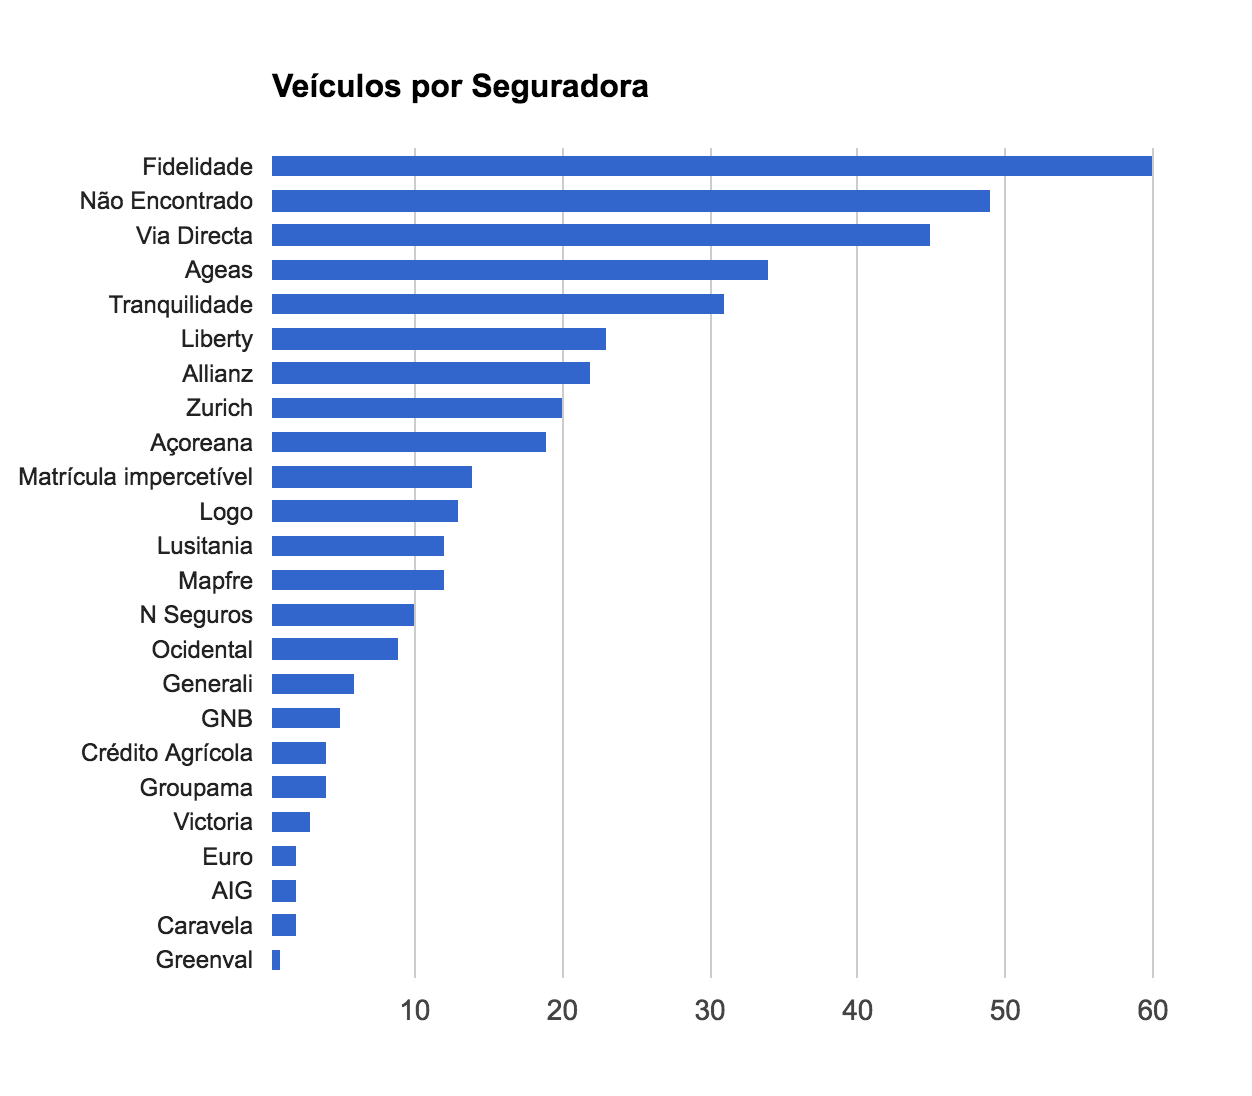
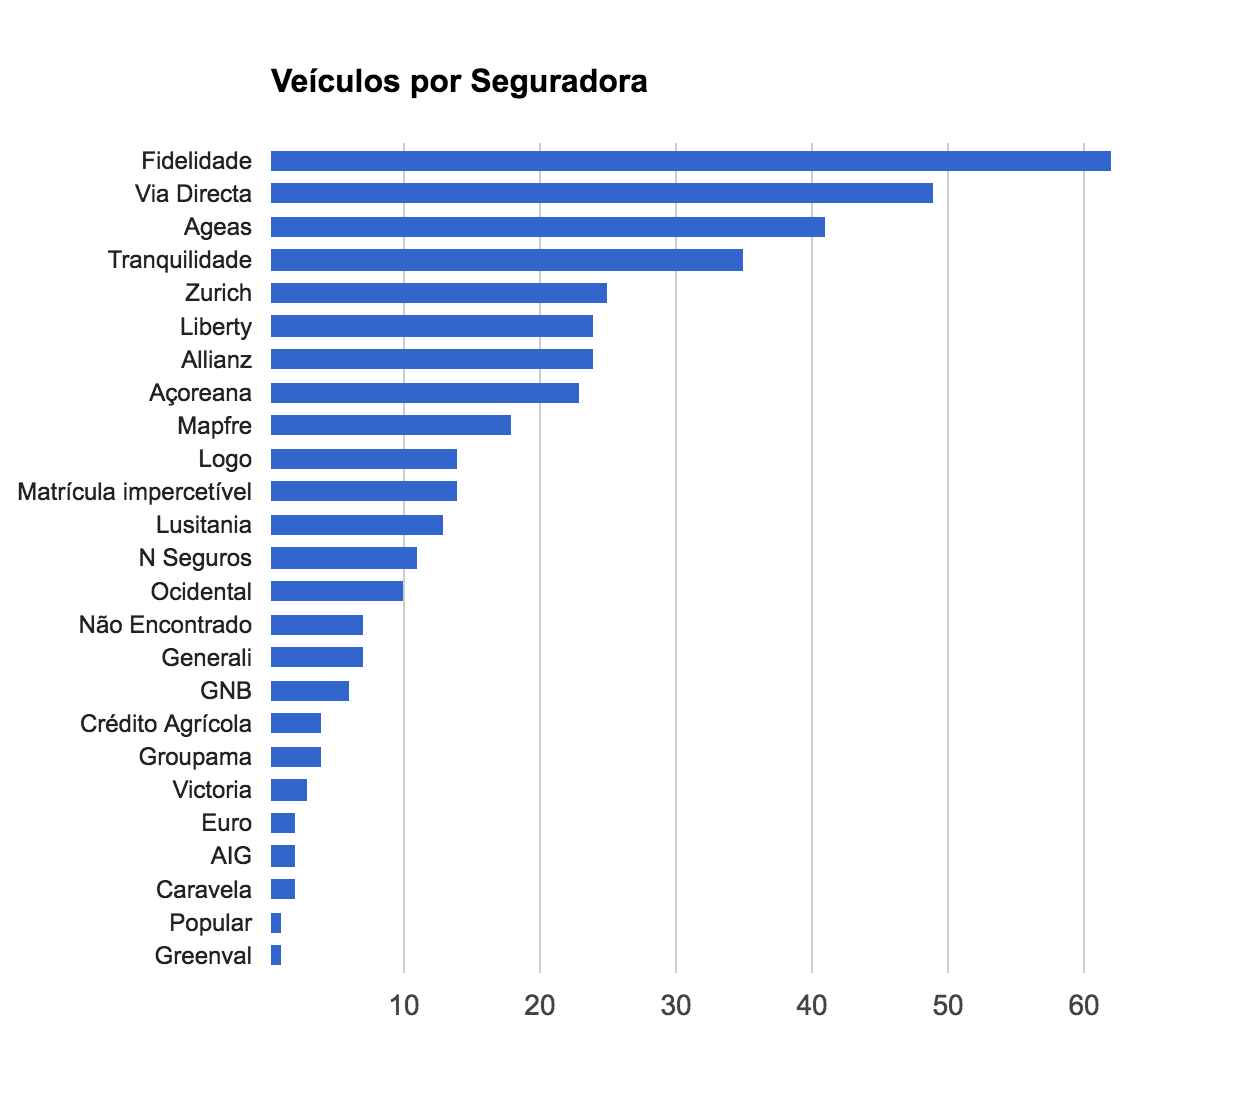
Add updated images in old thoughts about “Incêndio no Andanças”

diff --git a/content/thoughts/andancas-seguros/index.md b/content/thoughts/andancas-seguros/index.md
@@ -6,6 +6,8 @@ title: "Incêndio no Andanças: Os Números das Seguradoras"
 summary: Análise do impacto do incêndio no Andanças, seguradoras envolvidas e nacionalidade das matrículas.
 ---
 
+_**Update 2016-08-14:** Das 49 matrículas “não encontradas” apenas 7 continuam a não apresentar resultados. As restantes 42 matrículas distribuem-se pelas várias seguradoras de forma equivalente aos resultados anteriores, tendo aparecido uma nova seguradora “Popular Seguros”. O problema inicial deve ter sido uma falha informática temporária na [pesquisa do site da ASF][asfsearch]._
+
 _**Update 2016-08-13:** No dia da [pesquisa no site da ASF][asfsearch] muitas das matrículas estavam a responder como “não encontrado”. Hoje essas mesmas matrículas já respondem com informação de seguros pelo que em breve irei actualizar esta informação com esses novos dados._
 
 ---
